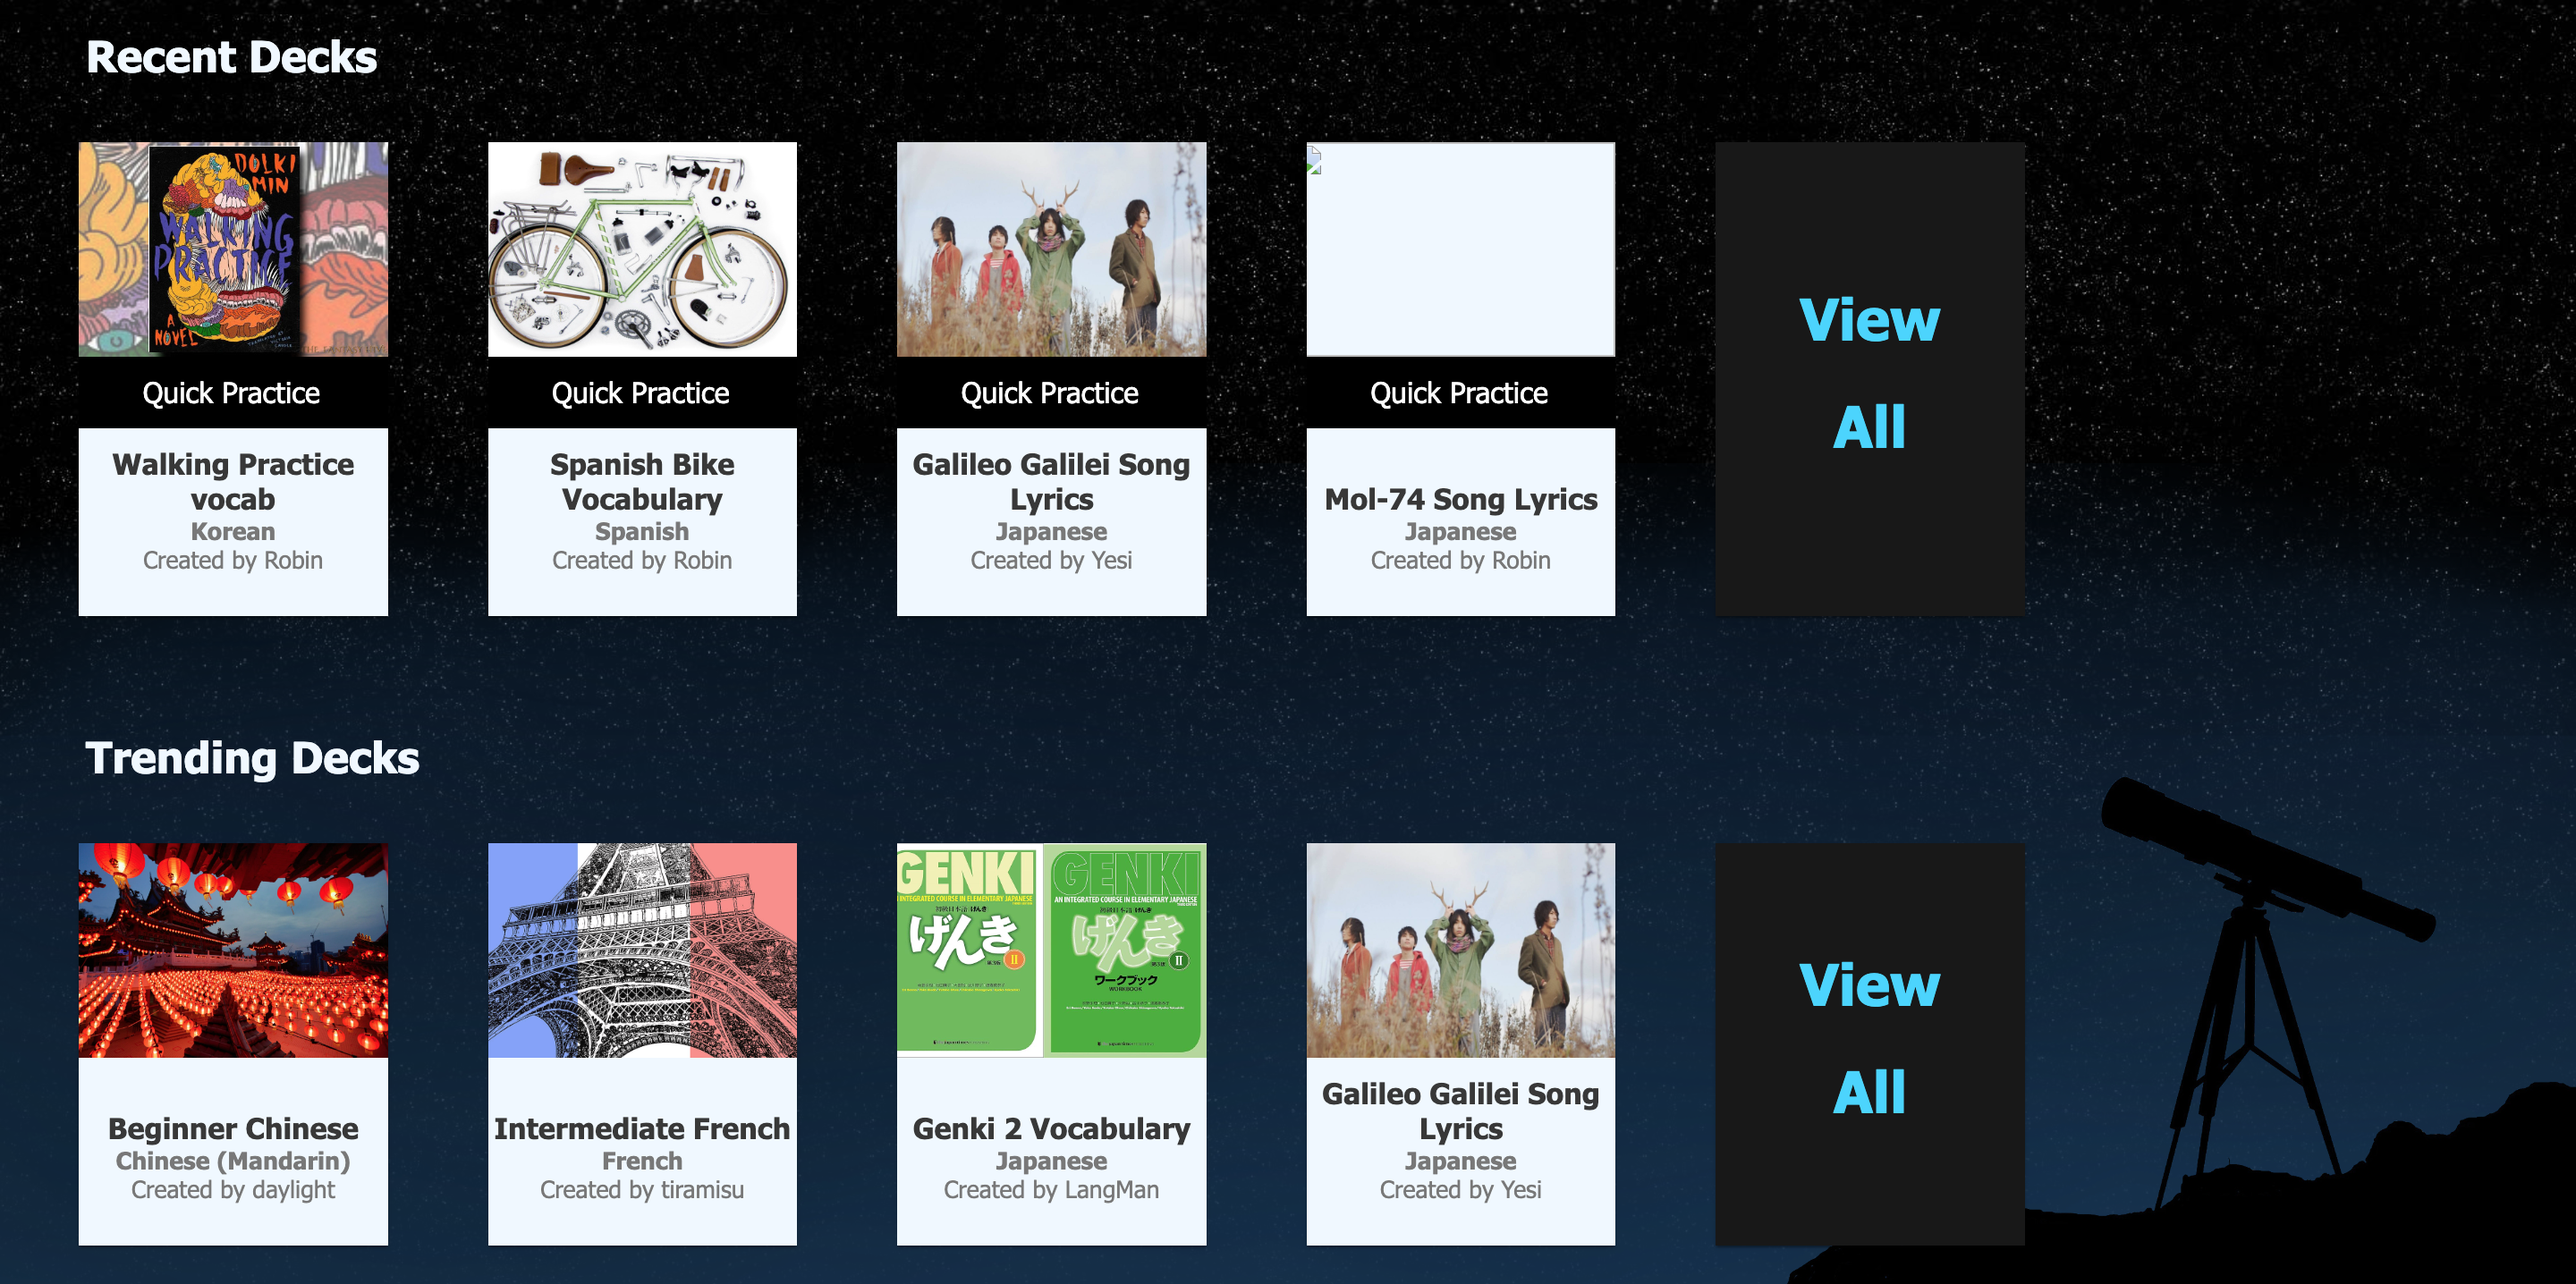
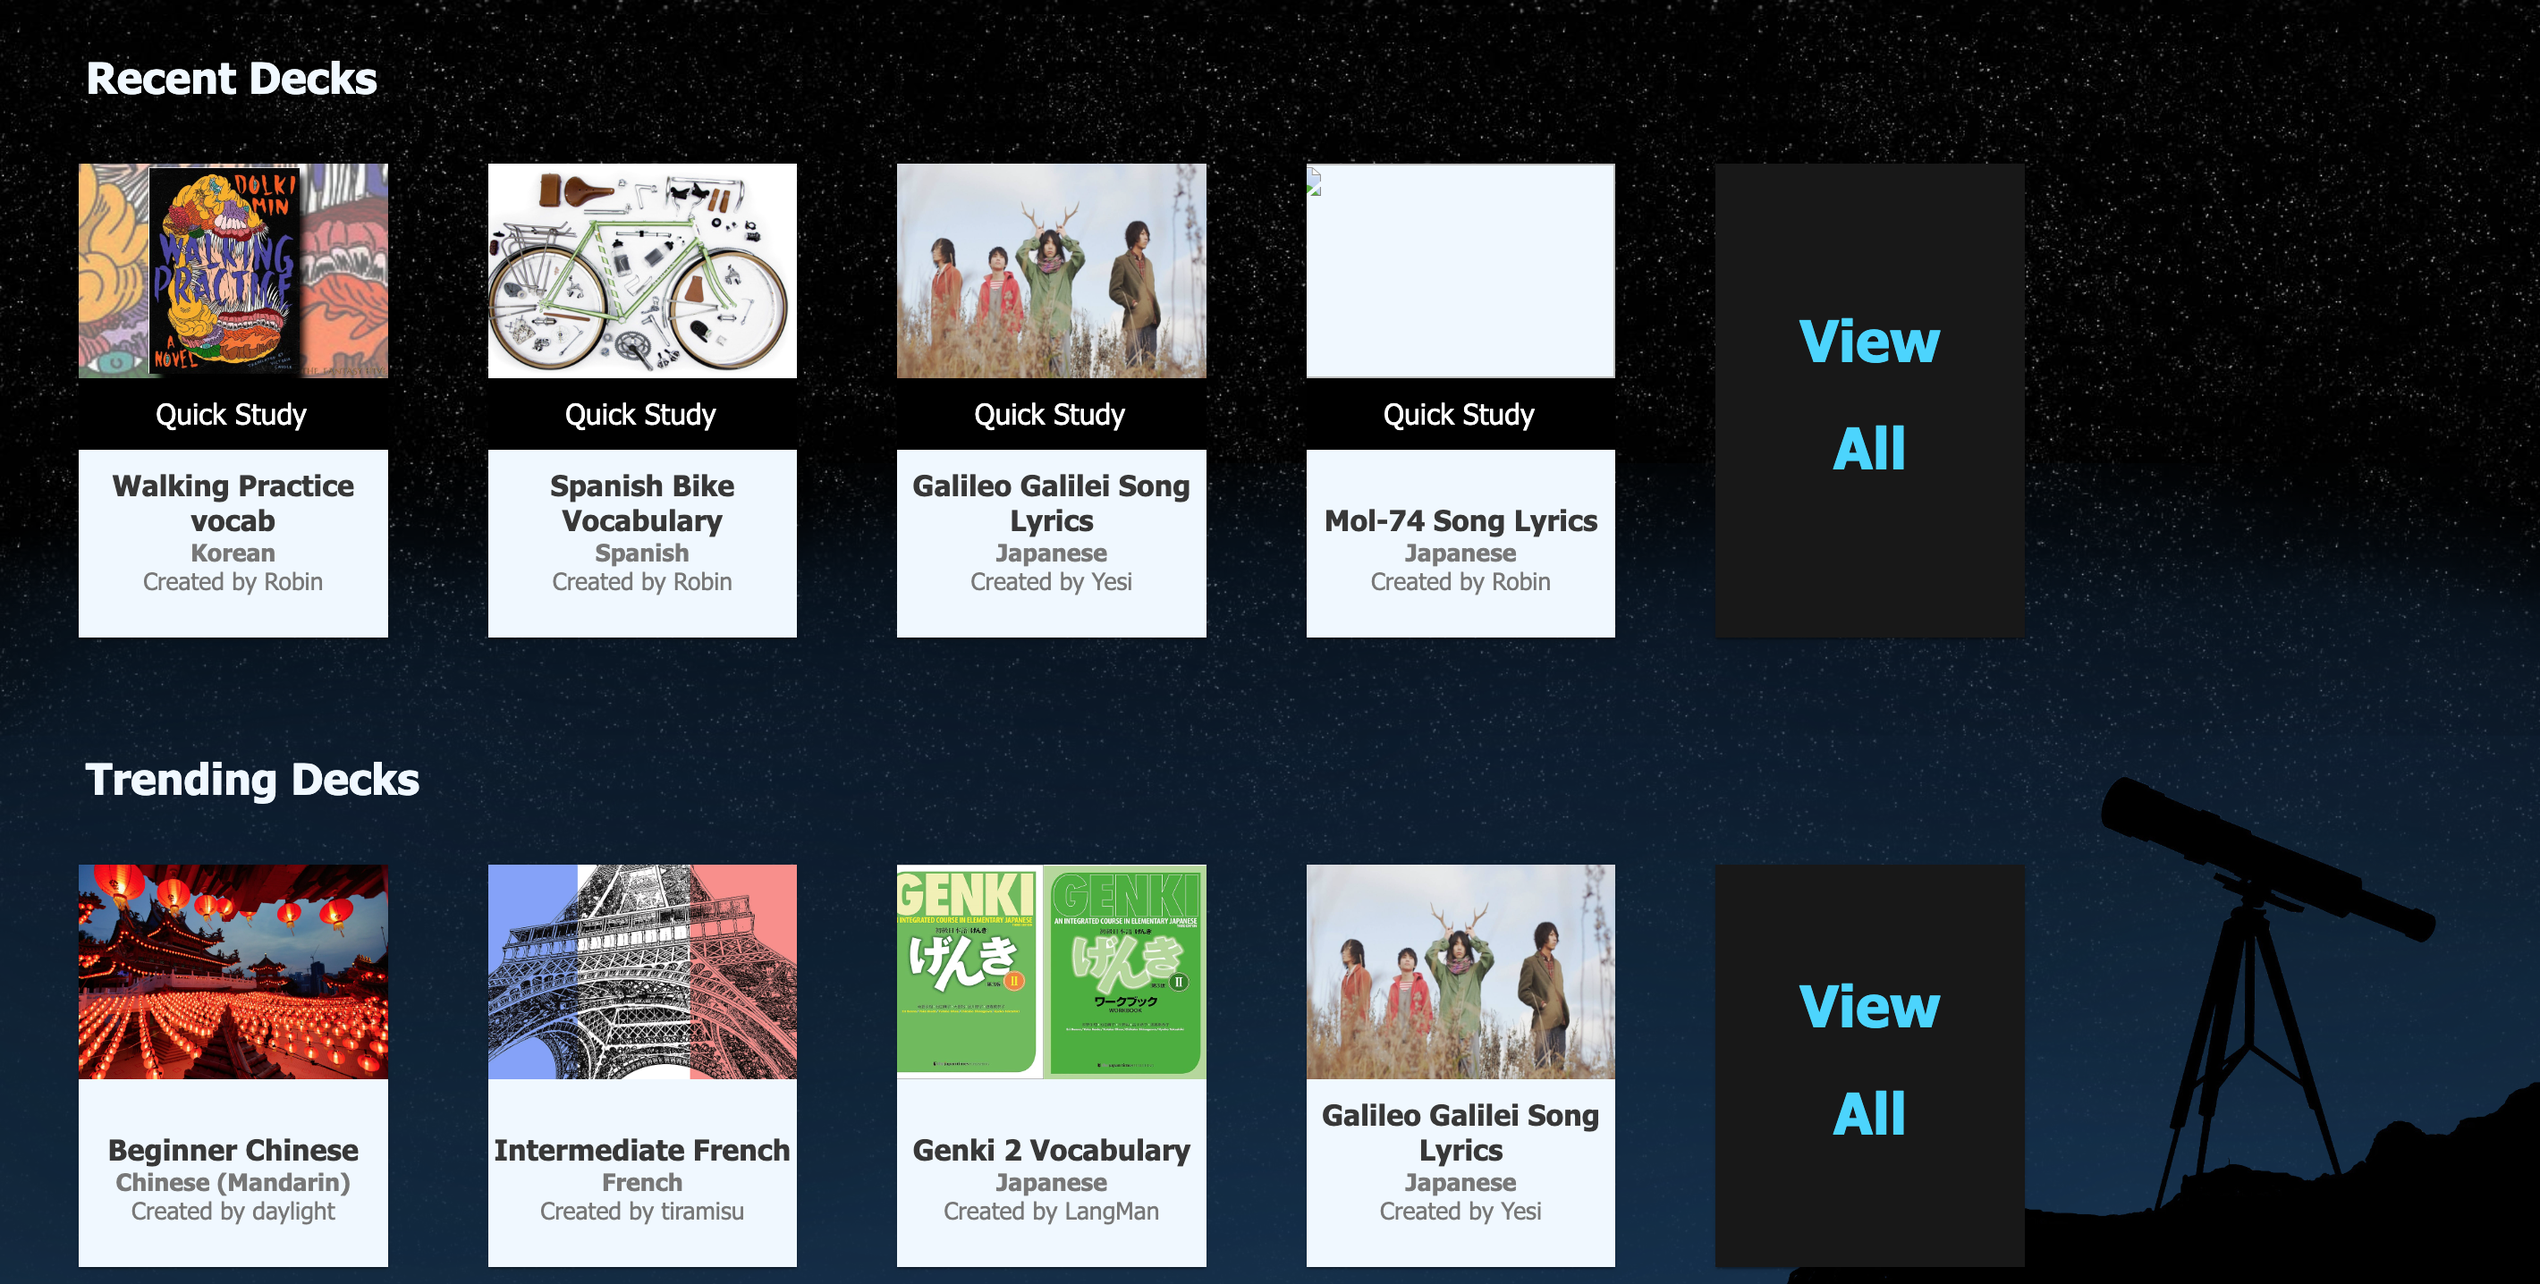
updated ReadMe, changed 'Quick Practice' to 'Quick Study' on DeckItem

diff --git a/src/components/DeckItem/DeckItem.jsx b/src/components/DeckItem/DeckItem.jsx
@@ -95,7 +95,7 @@ function DeckItem(props) {
               sx={[ {backgroundColor: 'black'}, {color: 'white'}, {width: '100%'}, 
               {height: '30px'}, {margin: '0px'}, {padding: '10px 0px 0px 0px'}, 
               {textAlign: 'center'}, {justifyItems: 'center'}, {'&:hover': {color: '#4cd3ff', backgroundColor: '#282828' }} ]}>
-              Quick Practice
+              Quick Study
             </Box>
           </CardActions>
         }

diff --git a/README.md b/README.md
@@ -45,7 +45,7 @@ Users can view details of flashcard decks they use by clicking the chosen deck a
 ![View Deck](./public/images/deck-details.png)
 
 On the details page, each chapter has a progress bar to show progress towards chapter completion, and each chapter can be expanded to show the words it contains. A deck requires a minimum of 1 chapter, but a chapter can contain any number of words.
-![View Items](./public/images/deck-show-items.png)
+![View Items](./public/images/deck-view-items.png)
 
 Users can only edit flashcard decks they own. Inaccesible options are grayed out for the user, and uneditable items are shown in view-mode only.
 ![Edit Deck](./public/images/deck-settings.png)
